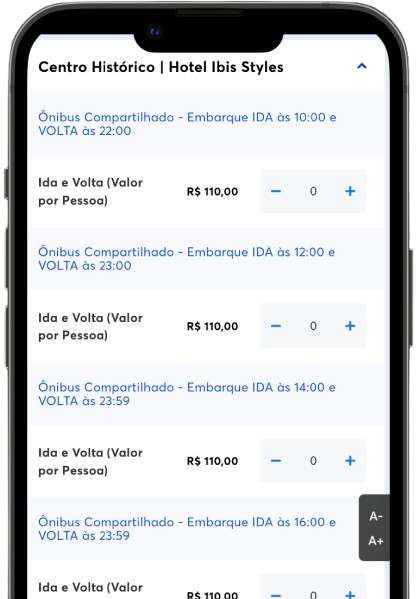
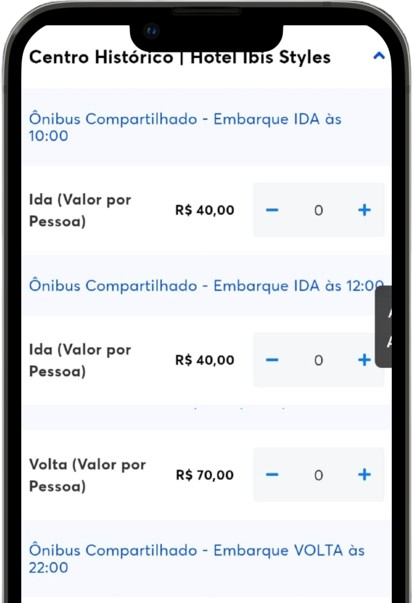
update

diff --git a/src/components/how/index.tsx b/src/components/how/index.tsx
@@ -22,41 +22,41 @@ const How = forwardRef<HTMLElement>((props, ref) =>{
     {
       key: 3,
       title: "3º Passo",
-      description: "Escolha o horário de ida e volta",
+      description: "Escolha o horário de ida e volta separadamente",
       image: Step3,
     },
   ];
   return (
     <section ref={ref} className="py-12 bg-accent">
-      <div className="container mx-auto px-4">
+      <div className="lg:container mx-auto px-4">
         <h2 className={`${anton.className} text-white text-center text-3xl mb-8`}>
           Como adquirir meu lugar
         </h2>
-        <div className="grid grid-cols-1 md:grid-cols-5 gap-12">
+        <div className="flex flex-col items-center md:flex-row md:justify-evenly space-y-8 md:space-y-0 md:space-x-4">
           {steps.map((step, index) => (
             <div
               key={step.key}
-              className={`${index === 0 && " md:col-start-2"}`}
+              className={`${index === 0 && " "}`}
             >
-              <div className="w-full mx-auto rounded-[12px] mb-4">
+              <div className="rounded-[12px] mb-4">
                 <Image
                   src={step.image}
                   alt="Passo 1"
-                  className="rounded-[12px]"
+                  className="rounded-[12px] object-cover w-[550px] lg:w-[390px] md:h-[470px] xl:h-[560px]"
                 />
               </div>
-              <div className="bg-green-lola text-black p-4 rounded-md">
-                <h3 className=" font-bold text-lg mb-2">
+              <div className="bg-green-lola text-black p-4 rounded-md h-[120px]">
+                <h3 className="font-bold mb-6 md:mb-2">
                   {step.title}
                 </h3>
-                <p className="">{step.description}</p>
+                <p className="font-semibold">{step.description}</p>
               </div>
             </div>
           ))}
         </div>
         <div className="mt-8 flex justify-center">
-          <Link href={wpp}>
-            <button className="px-4 py-2 bg-primary text-base font-semibold h-12 flex items-center"><FaWhatsapp size={25} className="mr-3"/>  Ficou com dúvidas? Fale conosco!</button>
+          <Link className="flex justify-center" href={wpp}>
+            <button className=" px-4 py-2 bg-primary text-base font-semibold h-12 flex items-center"><FaWhatsapp size={25} className="mr-3"/>  Ficou com dúvidas? Fale conosco!</button>
           </Link>
         </div>
       </div>

diff --git a/src/components/faq/index.tsx b/src/components/faq/index.tsx
@@ -11,7 +11,7 @@ const Faq = forwardRef<HTMLElement>((props, ref) =>{
       pergunta:
         "Posso comprar somente um trecho: ida ou volta para o Lollapalooza?",
       resposta:
-        "Os ingressos são vendidos apenas com o trajeto de ida e de volta. Porém, você pode usar apenas um trecho do trajeto (ida ou volta).",
+        "Sim! Os ingressos são vendidos separadamente para ida e volta. Você pode escolher utilizar apenas um dos trechos, conforme sua necessidade.",
     },
     {
       pergunta: "Como funciona os embarques de IDA para o Lollapalooza?",

diff --git a/src/components/footer/index.tsx b/src/components/footer/index.tsx
@@ -30,7 +30,7 @@ export default function Footer() {
         <div className="w-full md:w-1/4 mb-6 md:mb-0">
           <h3 className="text-lg font-bold mb-2 text-green-lola">Contatos</h3>
           <p className='text-primary font-semibold'>Telefone</p>
-          <p className="text-md">0800 880 1117</p>
+          <p className="text-md">(21) 97227-1212</p>
           <p className='text-primary font-semibold mt-8'>E-mail</p>
           <p className="text-md">contato@asbrasil.tur.br</p>
         </div>

diff --git a/src/components/buttons/primary.tsx b/src/components/buttons/primary.tsx
@@ -8,7 +8,7 @@ interface IButton {
 
 export default function PrimaryButton({ label, url, className }: IButton) {
   return (
-    <Link href={url} className={"bg-accent text-white text-center px-4 py-2 hover:scale-105 md:transition md:duration-150" + ` ${className}`}>
+    <Link href={url} className={"bg-accent text-white flex justify-center items-center h-[56px] md:h-[50px] px-4 py-2 hover:scale-105 md:transition md:duration-150" + ` ${className}`}>
       {label}
     </Link>
   );
